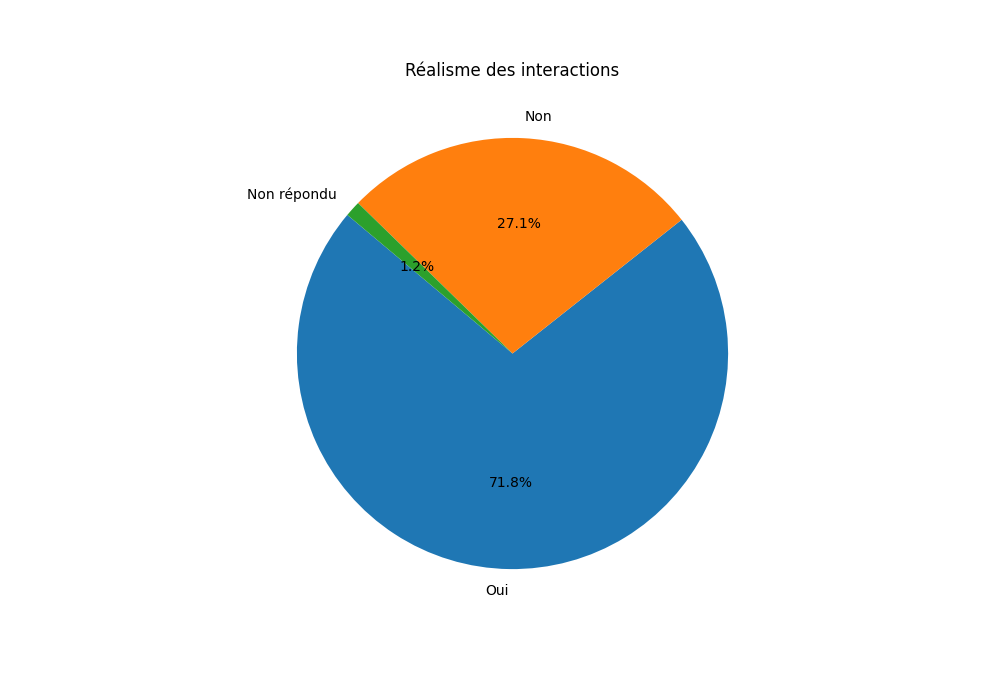
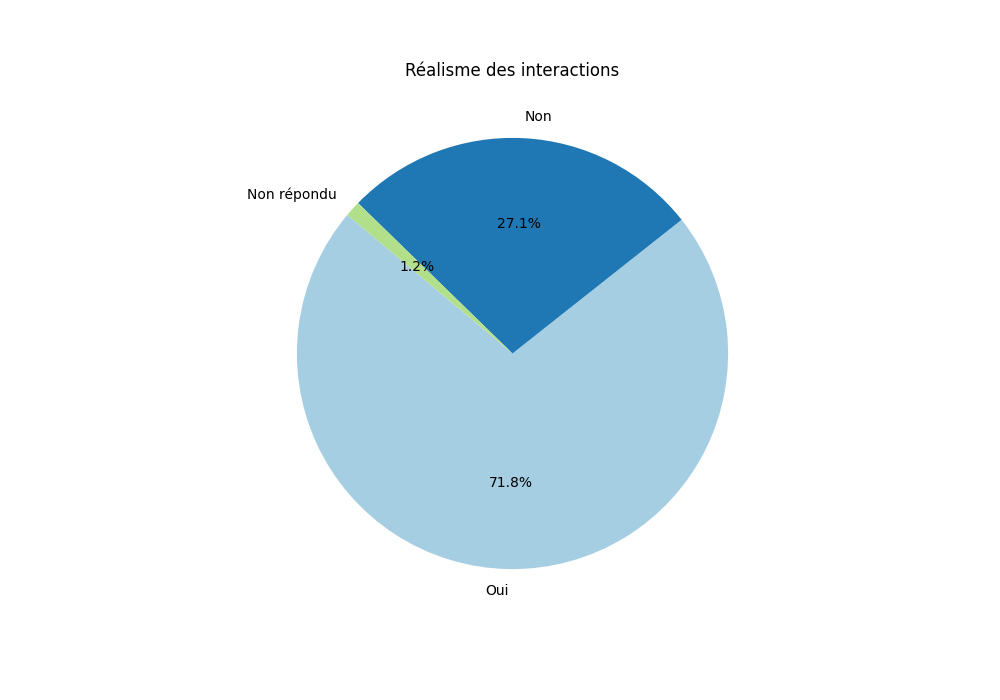
ajout filtre include/exclude + MAJ rapport

Changed region(s): [[0.279, 0.18, 0.744, 0.81]]

diff --git a/sondages/conversations/rapport_evaluations_conversations.py b/sondages/conversations/rapport_evaluations_conversations.py
@@ -5,10 +5,15 @@ import matplotlib.pyplot as plt
 import seaborn as sns
 import argparse
 
-def lire_fichiers_csv(repertoire, filtre=None):
+def lire_fichiers_csv(repertoire, filtre_exclure=None, filtre_inclure=None):
     fichiers_csv = [f for f in os.listdir(repertoire) if f.endswith('.csv')]
-    if filtre:
-        fichiers_csv = [f for f in fichiers_csv if filtre not in f]
+
+    if filtre_inclure:
+        fichiers_csv = [f for f in fichiers_csv if filtre_inclure in f]
+
+    if filtre_exclure:
+        fichiers_csv = [f for f in fichiers_csv if filtre_exclure not in f]
+
     return fichiers_csv
 
 def lire_csv(fichier):
@@ -120,6 +125,9 @@ def generer_rapport_statistique(df):
     return rapport
 
 def generer_visualisations(df, repertoire_sortie):
+    # Définir une palette de couleurs plus harmonieuse
+    sns.set_palette("Paired")
+
     # Créer des graphiques pour les notes de pertinence des questions et réponses côte à côte
     plt.figure(figsize=(14, 7))
 
@@ -142,6 +150,7 @@ def generer_visualisations(df, repertoire_sortie):
     plt.ylabel('')  # Supprimer l'étiquette de l'axe y
     plt.savefig(os.path.join(repertoire_sortie, 'realisme_interaction.png'))
     plt.close()
+
 
 def ecrire_rapport_markdown(rapport, repertoire_sortie, nb_conversations, nb_échanges):
     fichier_sortie = os.path.join(repertoire_sortie, 'rapport_statistique.md')
@@ -187,11 +196,12 @@ def ecrire_rapport_markdown(rapport, repertoire_sortie, nb_conversations, nb_éc
 
 def main():
     parser = argparse.ArgumentParser(description='Générer un rapport statistique à partir de fichiers CSV.')
-    parser.add_argument('--filter', type=str, help='Filtre pour exclure certains fichiers en fonction de leur nom.')
+    parser.add_argument('--filter-exclude', type=str, help='Filtre pour exclure certains fichiers en fonction de leur nom.')
+    parser.add_argument('--filter-include', type=str, help='Filtre pour inclure uniquement certains fichiers en fonction de leur nom.')
     args = parser.parse_args()
 
     repertoire = './evaluations/'
-    fichiers_csv = lire_fichiers_csv(repertoire, args.filter)
+    fichiers_csv = lire_fichiers_csv(repertoire, args.filter_exclude, args.filter_include)
 
     df_global = pd.DataFrame()
 
@@ -221,3 +231,6 @@ def main():
 
 if __name__ == "__main__":
     main()
+
+# python .\rapport_evaluations_conversations.py --filter-exclude "R"
+# python .\rapport_evaluations_conversations.py --filter-include "R"
